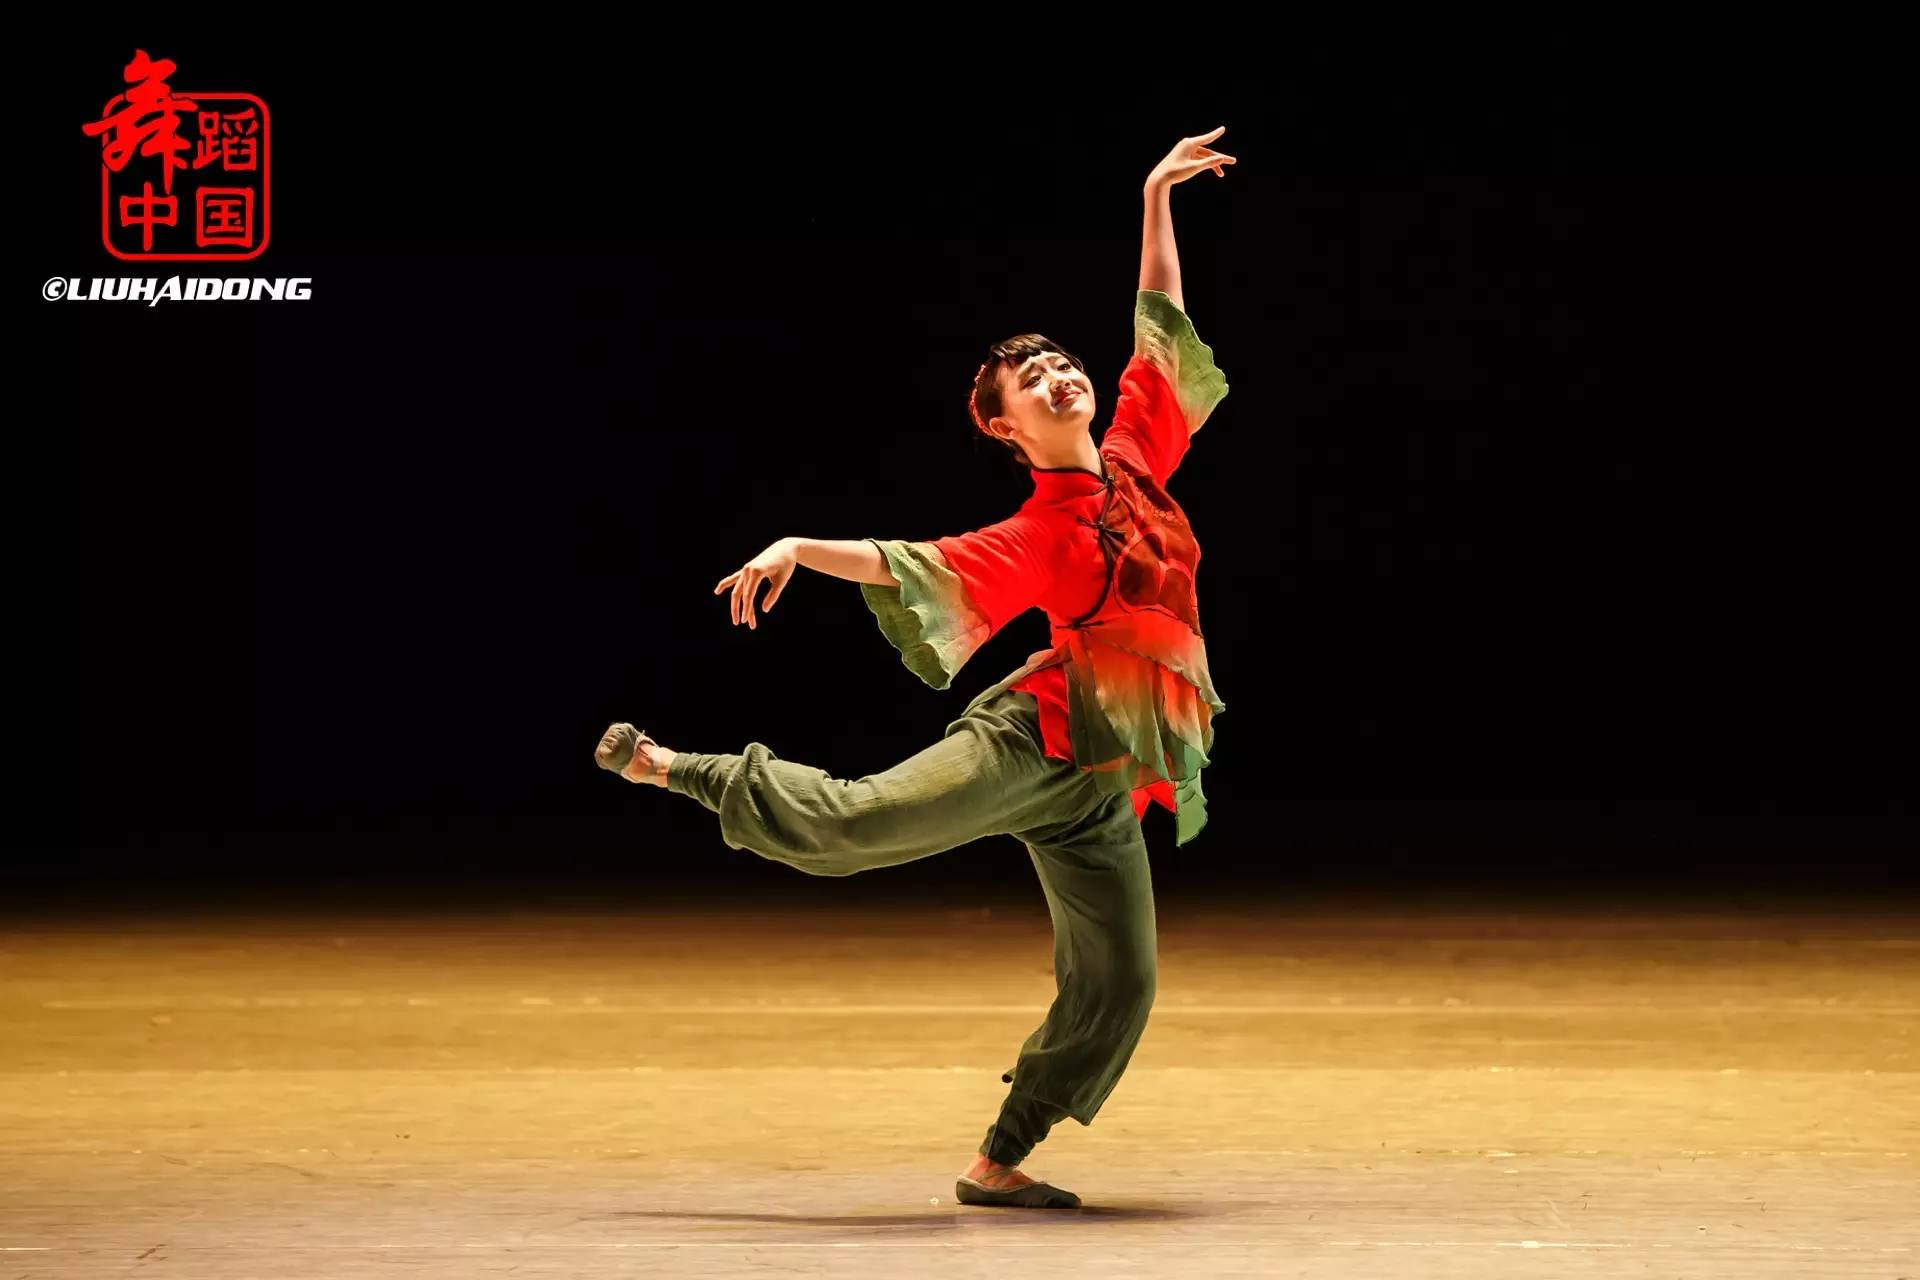
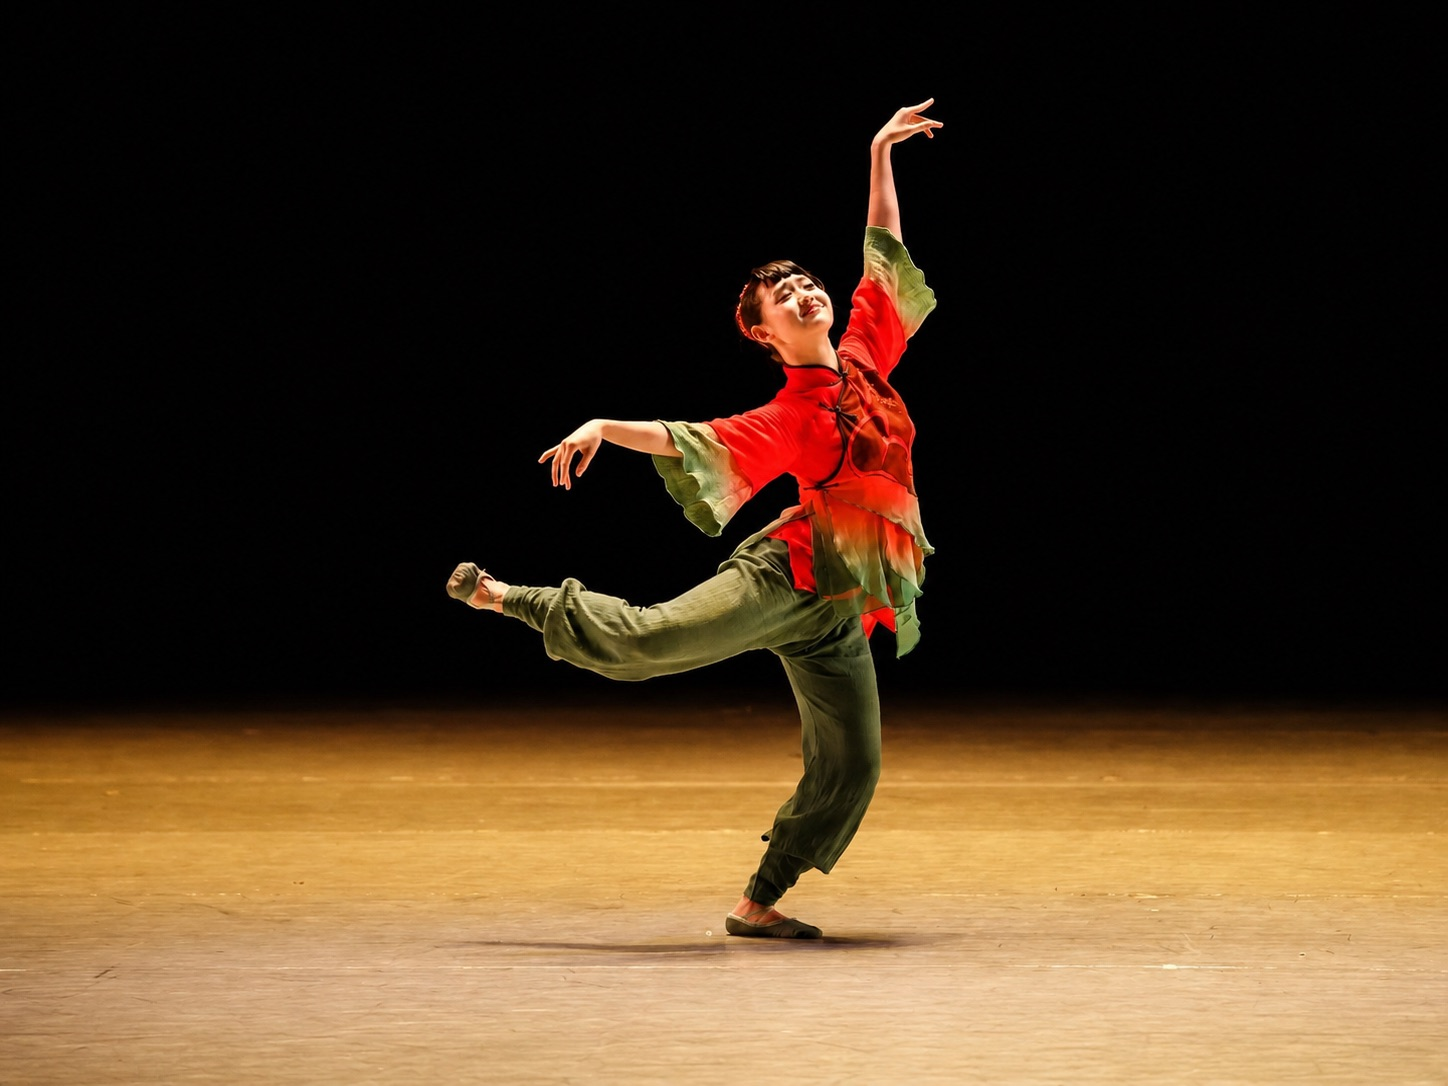
Refine portfolio details and image order

diff --git a/src/app/App.tsx b/src/app/App.tsx
@@ -9,6 +9,7 @@ type LocalizedText = Record<Language, string>;
 type Project = {
   id: number;
   title: string;
+  titleZh?: string;
   subtitle: LocalizedText;
   year: string;
   venue: LocalizedText;
@@ -31,14 +32,14 @@ const tranquillaGalleryImages = [
 ];
 
 const unterweltGalleryImages = [
-  "/unterwelt/01.jpg",
-  "/unterwelt/02.jpg",
-  "/unterwelt/03.jpg",
-  "/unterwelt/04.jpg",
   "/unterwelt/05.jpg",
   "/unterwelt/06.jpg",
-  "/unterwelt/07.jpg",
+  "/unterwelt/01.jpg",
   "/unterwelt/08.jpg",
+  "/unterwelt/04.jpg",
+  "/unterwelt/06.jpg",
+  "/unterwelt/03.jpg",
+  "/unterwelt/02.jpg",
 ];
 
 const panicGalleryImages = [
@@ -47,9 +48,8 @@ const panicGalleryImages = [
 ];
 
 const rauschGalleryImages = [
-  "/rausch/01.jpg",
-  "/rausch/02.jpg",
   "/rausch/03.jpg",
+  "/rausch/01.jpg",
   "/rausch/04.jpg",
   "/rausch/05.jpg",
   "/rausch/06.jpg",
@@ -57,6 +57,7 @@ const rauschGalleryImages = [
 
 const zauberGalleryImages = [
   "/zauber/01.jpg",
+  "/zauber/02.jpg",
 ];
 
 const xingHanYunYiGalleryImages = [
@@ -83,152 +84,155 @@ const projects: Project[] = [
     id: 1,
     title: "Tranquilla Trampeltreu / Der Lindwurm und der Schmetterling",
     subtitle: {
-      zh: "Wilfried Hiller / Michael Ende 儿童音乐会",
-      en: "Children's concert by Wilfried Hiller / Michael Ende",
+      zh: "舞台、服装、化妆、灯光、道具设计 · 朱佳乐",
+      en: "Stage, costume, make-up, lighting and prop design · Jiale Zhu",
     },
     year: "2025",
     venue: {
       zh: "巴伐利亚国立歌剧院 · Bergson Kunstkraftwerk",
       en: "Bavarian State Opera · Bergson Kunstkraftwerk",
     },
-    image: tranquillaGalleryImages[0],
+    image: tranquillaGalleryImages[4],
     images: tranquillaGalleryImages,
     description: {
-      zh: "Bayerische Staatsoper Kind&Co 儿童音乐会，面向 5 岁以上观众，时长约 60 分钟、无中场休息。作品由巴伐利亚国家管弦乐团与国立歌剧院歌唱家讲述两则 Michael Ende 的动物寓言，音乐由 Wilfried Hiller 创作。导演 Catharina von Bülow，音乐指导 Rafaela Seywald；朱佳乐负责道具设计。",
-      en: "A Bayerische Staatsoper Kind&Co children's concert for audiences aged 5 and above, with a running time of about 60 minutes and no interval. The Bavarian State Orchestra and singers from the State Opera tell two animal fables by Michael Ende, set to music by Wilfried Hiller. Directed by Catharina von Bülow and conducted by Rafaela Seywald; Jiale Zhu is credited with prop design.",
+      zh: "Children's concert by Wilfried Hiller / Michael Ende。Bayerische Staatsoper Kind&Co 儿童音乐会，面向 5 岁以上观众，时长约 60 分钟、无中场休息。Musikalische Leitung: Rafaela Seywald. Szenische Einrichtung: Catharina von Bülow. Ausstattung: Jiale Zhu.",
+      en: "Children's concert by Wilfried Hiller / Michael Ende. A Bayerische Staatsoper Kind&Co concert for audiences aged 5 and above, with a running time of about 60 minutes and no interval. Musikalische Leitung: Rafaela Seywald. Szenische Einrichtung: Catharina von Bülow. Ausstattung: Jiale Zhu.",
     },
   },
   {
     id: 2,
-    title: "Orpheus in der Unterwelt",
+    title: "Orphous in der Unterwelt",
     subtitle: {
-      zh: "作品集项目",
-      en: "Portfolio work",
+      zh: "Opéra-Bouffon in 2 Akten/4 Bildern",
+      en: "Opéra-Bouffon in 2 Akten/4 Bildern",
     },
-    year: "Selected Work",
+    year: "2021",
     venue: {
-      zh: "舞台与服装设计",
-      en: "Stage and costume design",
+      zh: "Max Schlereth Saal Universität Mozarteum",
+      en: "Max Schlereth Saal Universität Mozarteum",
     },
     image: unterweltGalleryImages[0],
     images: unterweltGalleryImages,
     description: {
-      zh: "Orpheus in der Unterwelt 作品图集，展示舞台、服装与整体视觉设计。",
-      en: "Portfolio documentation for Orpheus in der Unterwelt, presenting stage, costume, and visual design work.",
+      zh: "Orphous in der Unterwelt. Opéra-Bouffon in 2 Akten/4 Bildern. Musik von Jacques Offenbach, Version 1858. Musikalische Leitung: Kai Röhrig. Regie: Rosamund Gilmore. Bühne: Jiale Zhu. Kostüme: Jisu Park. Dramaturgie: Ronny Dietrich.",
+      en: "Orphous in der Unterwelt. Opéra-Bouffon in 2 Akten/4 Bildern. Musik von Jacques Offenbach, Version 1858. Musikalische Leitung: Kai Röhrig. Regie: Rosamund Gilmore. Bühne: Jiale Zhu. Kostüme: Jisu Park. Dramaturgie: Ronny Dietrich.",
     },
   },
   {
     id: 3,
     title: "Panic:Attacks",
     subtitle: {
-      zh: "作品集项目",
-      en: "Portfolio work",
+      zh: "Costume Design · Jiale Zhu",
+      en: "Costume Design · Jiale Zhu",
     },
-    year: "Selected Work",
+    year: "2022",
     venue: {
-      zh: "舞台与服装设计",
-      en: "Stage and costume design",
+      zh: "Barockmuseum Salzburg",
+      en: "Barockmuseum Salzburg",
     },
-    image: panicGalleryImages[0],
+    image: panicGalleryImages[1],
     images: panicGalleryImages,
     description: {
-      zh: "Panic:Attacks 作品图集，展示舞台、服装与整体视觉设计。",
-      en: "Portfolio documentation for Panic:Attacks, presenting stage, costume, and visual design work.",
+      zh: "What happens when panic attacks? This is the initial question of a performative research by the director in collaboration with dancers, an actor and a composer. Based on interviews with panic attack victims, the effects of a panic attack on body, breath and thoughts are scenically explored, deconstructed and reconstructed - always in the awareness that there is no \"one panic attack\". Directed by: Lea Oltmanns | Sound Design: Alexander Bauer | Costume Design: Jiale Zhu.",
+      en: "What happens when panic attacks? This is the initial question of a performative research by the director in collaboration with dancers, an actor and a composer. Based on interviews with panic attack victims, the effects of a panic attack on body, breath and thoughts are scenically explored, deconstructed and reconstructed - always in the awareness that there is no \"one panic attack\". Directed by: Lea Oltmanns | Sound Design: Alexander Bauer | Costume Design: Jiale Zhu.",
     },
   },
   {
     id: 4,
     title: "Rausch",
     subtitle: {
-      zh: "作品集项目",
-      en: "Portfolio work",
+      zh: "Costume Design · Jiale Zhu",
+      en: "Costume Design · Jiale Zhu",
     },
-    year: "Selected Work",
+    year: "2021",
     venue: {
-      zh: "舞台与服装设计",
-      en: "Stage and costume design",
+      zh: "Salzburg Schauspiel",
+      en: "Salzburg Schauspiel",
     },
     image: rauschGalleryImages[0],
     images: rauschGalleryImages,
     description: {
-      zh: "Rausch 作品图集，展示舞台、服装与整体视觉设计。",
-      en: "Portfolio documentation for Rausch, presenting stage, costume, and visual design work.",
+      zh: "Directed by: Lea Oltmanns. Stage: Julia Soest, Magdalena Hofer, Jiale Zhu. Costume Design: Jiale Zhu.",
+      en: "Directed by: Lea Oltmanns. Stage: Julia Soest, Magdalena Hofer, Jiale Zhu. Costume Design: Jiale Zhu.",
     },
   },
   {
     id: 5,
     title: "Die Zauberflote",
     subtitle: {
-      zh: "作品集项目",
-      en: "Portfolio work",
+      zh: "Oper von Wolfgang Amadé Mozart",
+      en: "Oper von Wolfgang Amadé Mozart",
     },
-    year: "Selected Work",
+    year: "2021",
     venue: {
-      zh: "舞台与服装设计",
-      en: "Stage and costume design",
+      zh: "Max Schlereth Saal Universität Mozarteum",
+      en: "Max Schlereth Saal Universität Mozarteum",
     },
     image: zauberGalleryImages[0],
     images: zauberGalleryImages,
     description: {
-      zh: "Die Zauberflote 作品图集，展示舞台、服装与整体视觉设计。",
-      en: "Portfolio documentation for Die Zauberflote, presenting stage, costume, and visual design work.",
+      zh: "Oper von Wolfgang Amadé Mozart. Musikalische Leitung: Kai Röhrig. Inszenierung: Magdolna Parditka und Alexandra Szemerédy. Bühnenbild: Michael Hofer-Lenz. Kostüme: Magdolna Parditka und Jiale Zhu. Dramaturgie: Christian Arseni.",
+      en: "Oper von Wolfgang Amadé Mozart. Musikalische Leitung: Kai Röhrig. Inszenierung: Magdolna Parditka und Alexandra Szemerédy. Bühnenbild: Michael Hofer-Lenz. Kostüme: Magdolna Parditka und Jiale Zhu. Dramaturgie: Christian Arseni.",
     },
   },
   {
     id: 6,
     title: "Xing Han Yun Yi",
+    titleZh: "星汉云逸",
     subtitle: {
-      zh: "作品集项目",
-      en: "Portfolio work",
+      zh: "汉唐古典舞双人舞",
+      en: "Duet Han-Tang Classical Dance",
     },
-    year: "Selected Work",
+    year: "2013",
     venue: {
-      zh: "舞台与服装设计",
-      en: "Stage and costume design",
+      zh: "Beijing",
+      en: "Beijing",
     },
     image: xingHanYunYiGalleryImages[0],
     images: xingHanYunYiGalleryImages,
     description: {
-      zh: "Xing Han Yun Yi 作品图集，展示舞台、服装与整体视觉设计。",
-      en: "Portfolio documentation for Xing Han Yun Yi, presenting stage, costume, and visual design work.",
+      zh: "Duet Han-Tang Classical Dance. Costume Design: Jiale Zhu.",
+      en: "Duet Han-Tang Classical Dance. Costume Design: Jiale Zhu.",
     },
   },
   {
     id: 7,
     title: "Cha Yu Fan Hou",
+    titleZh: "茶余饭后",
     subtitle: {
-      zh: "作品集项目",
-      en: "Portfolio work",
+      zh: "当代舞",
+      en: "Contemporary Dance",
     },
-    year: "Selected Work",
+    year: "2014",
     venue: {
-      zh: "舞台与服装设计",
-      en: "Stage and costume design",
+      zh: "Beijing",
+      en: "Beijing",
     },
     image: chaYuFanHouGalleryImages[0],
     images: chaYuFanHouGalleryImages,
     description: {
-      zh: "Cha Yu Fan Hou 作品图集，展示舞台、服装与整体视觉设计。",
-      en: "Portfolio documentation for Cha Yu Fan Hou, presenting stage, costume, and visual design work.",
+      zh: "Contemporary Dance. Stage and costume design: Jiale Zhu.",
+      en: "Contemporary Dance. Stage and costume design: Jiale Zhu.",
     },
   },
   {
     id: 8,
     title: "Hong Gao Liang",
+    titleZh: "红高粱",
     subtitle: {
-      zh: "作品集项目",
-      en: "Portfolio work",
+      zh: "中国民族舞独舞",
+      en: "Solo Chinese Ethnic Dance",
     },
-    year: "Selected Work",
+    year: "2013",
     venue: {
-      zh: "舞台与服装设计",
-      en: "Stage and costume design",
+      zh: "Beijing",
+      en: "Beijing",
     },
     image: hongGaoLiangGalleryImages[0],
     images: hongGaoLiangGalleryImages,
     description: {
-      zh: "Hong Gao Liang 作品图集，展示舞台、服装与整体视觉设计。",
-      en: "Portfolio documentation for Hong Gao Liang, presenting stage, costume, and visual design work.",
+      zh: "Solo Chinese Ethnic Dance. Costume Design: Jiale Zhu.",
+      en: "Solo Chinese Ethnic Dance. Costume Design: Jiale Zhu.",
     },
   },
 ];
@@ -259,6 +263,7 @@ const content = {
       paragraphs: [
         "拥有中欧顶尖艺术院校双重教育背景（北京舞蹈学院 & 奥地利莫扎特大学），现供职于世界顶尖歌剧院 - 德国巴伐利亚国立歌剧院。",
         "具备国际化审美视野与严谨的德国剧院工业化生产流程经验。擅长跨国团队沟通，拥有处理大型歌剧复杂视觉系统落地的实战经验。",
+        "国际奖项：动画电影《A Hamlet Machine》获 2022 年全球国际大学生影响力电影节优秀奖。",
       ],
       educationTitle: "教育背景",
       education: [
@@ -326,6 +331,7 @@ const content = {
       paragraphs: [
         "Educated across leading art institutions in China and Europe, including Beijing Dance Academy and Universitat Mozarteum Salzburg, Zhu Jiale currently works at the Bavarian State Opera.",
         "Her practice combines an international visual perspective with hands-on experience in rigorous German theater production workflows, especially for large-scale opera and complex visual systems.",
+        "International award: the animated film A Hamlet Machine received the Excellence Award at the 2022 Global International Student Impact Film Festival.",
       ],
       educationTitle: "EDUCATION",
       education: [
@@ -372,6 +378,9 @@ const content = {
 
 const technicalSkills = ["MegaCAD, AutoCAD", "Cinema 4D", "ArchiCAD"];
 const creativeSkills = ["Photoshop, InDesign", "Premiere, Final Cut", "Costume Construction"];
+
+const getProjectTitle = (project: Project, language: Language) =>
+  language === "zh" && project.titleZh ? project.titleZh : project.title;
 
 export default function App() {
   const [language, setLanguage] = useState<Language>("en");
@@ -590,7 +599,7 @@ export default function App() {
                   <div className="relative aspect-[3/4] overflow-hidden bg-white/5 mb-4">
                     <img
                       src={project.image}
-                      alt={project.title}
+                      alt={getProjectTitle(project, language)}
                       className="w-full h-full object-cover transition-transform duration-700 group-hover:scale-105"
                     />
                     <div className="absolute inset-0 bg-gradient-to-t from-black/80 via-black/20 to-transparent opacity-0 group-hover:opacity-100 transition-opacity duration-500" />
@@ -599,7 +608,7 @@ export default function App() {
                       <div className="text-sm text-white/80">{project.venue[language]}</div>
                     </div>
                   </div>
-                  <h3 className="text-xl mb-1 font-light">{project.title}</h3>
+                  <h3 className="text-xl mb-1 font-light">{getProjectTitle(project, language)}</h3>
                   <p className="text-white/50 text-sm font-light">{project.subtitle[language]}</p>
                 </motion.div>
               ))}
@@ -745,6 +754,12 @@ export default function App() {
                     </div>
                     <div className="font-light">+86 130 0215 0771</div>
                   </a>
+                  <a href="tel:+4915238786588" className="flex items-center gap-4 text-white/60 hover:text-white transition-colors group">
+                    <div className="w-12 h-12 border border-white/20 group-hover:border-white/40 transition-colors flex items-center justify-center">
+                      <Phone size={20} />
+                    </div>
+                    <div className="font-light">+4915238786588</div>
+                  </a>
                   <div className="flex items-center gap-4 text-white/60">
                     <div className="w-12 h-12 border border-white/20 flex items-center justify-center">
                       <MapPin size={20} />
@@ -789,7 +804,7 @@ export default function App() {
             <div className="relative aspect-[16/9] overflow-hidden bg-white/5">
               <img
                 src={currentProjectImage}
-                alt={selectedProject.title}
+                alt={getProjectTitle(selectedProject, language)}
                 className="w-full h-full object-contain"
               />
 
@@ -836,7 +851,7 @@ export default function App() {
               <div className="flex justify-between items-start mb-6 gap-6">
                 <div>
                   <div className="text-sm text-white/40 mb-2">{selectedProject.year} · {selectedProject.venue[language]}</div>
-                  <h3 className="text-3xl md:text-4xl font-light mb-2">{selectedProject.title}</h3>
+                  <h3 className="text-3xl md:text-4xl font-light mb-2">{getProjectTitle(selectedProject, language)}</h3>
                   <p className="text-xl text-white/60 font-light">{selectedProject.subtitle[language]}</p>
                 </div>
                 <button
